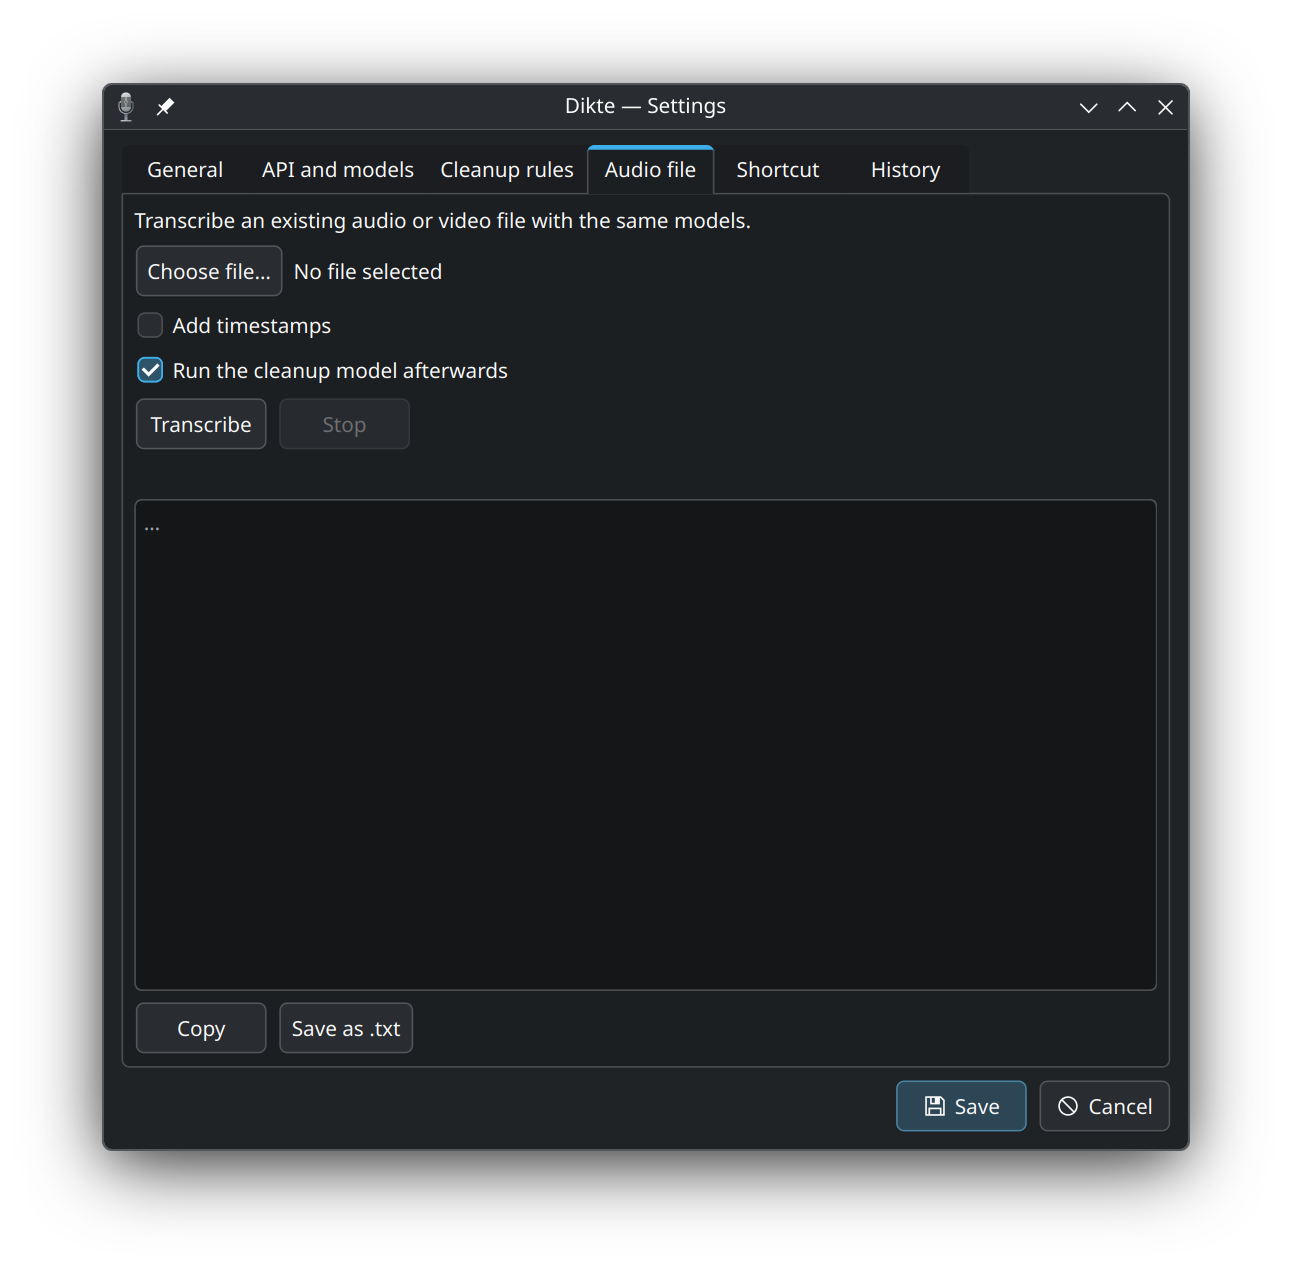
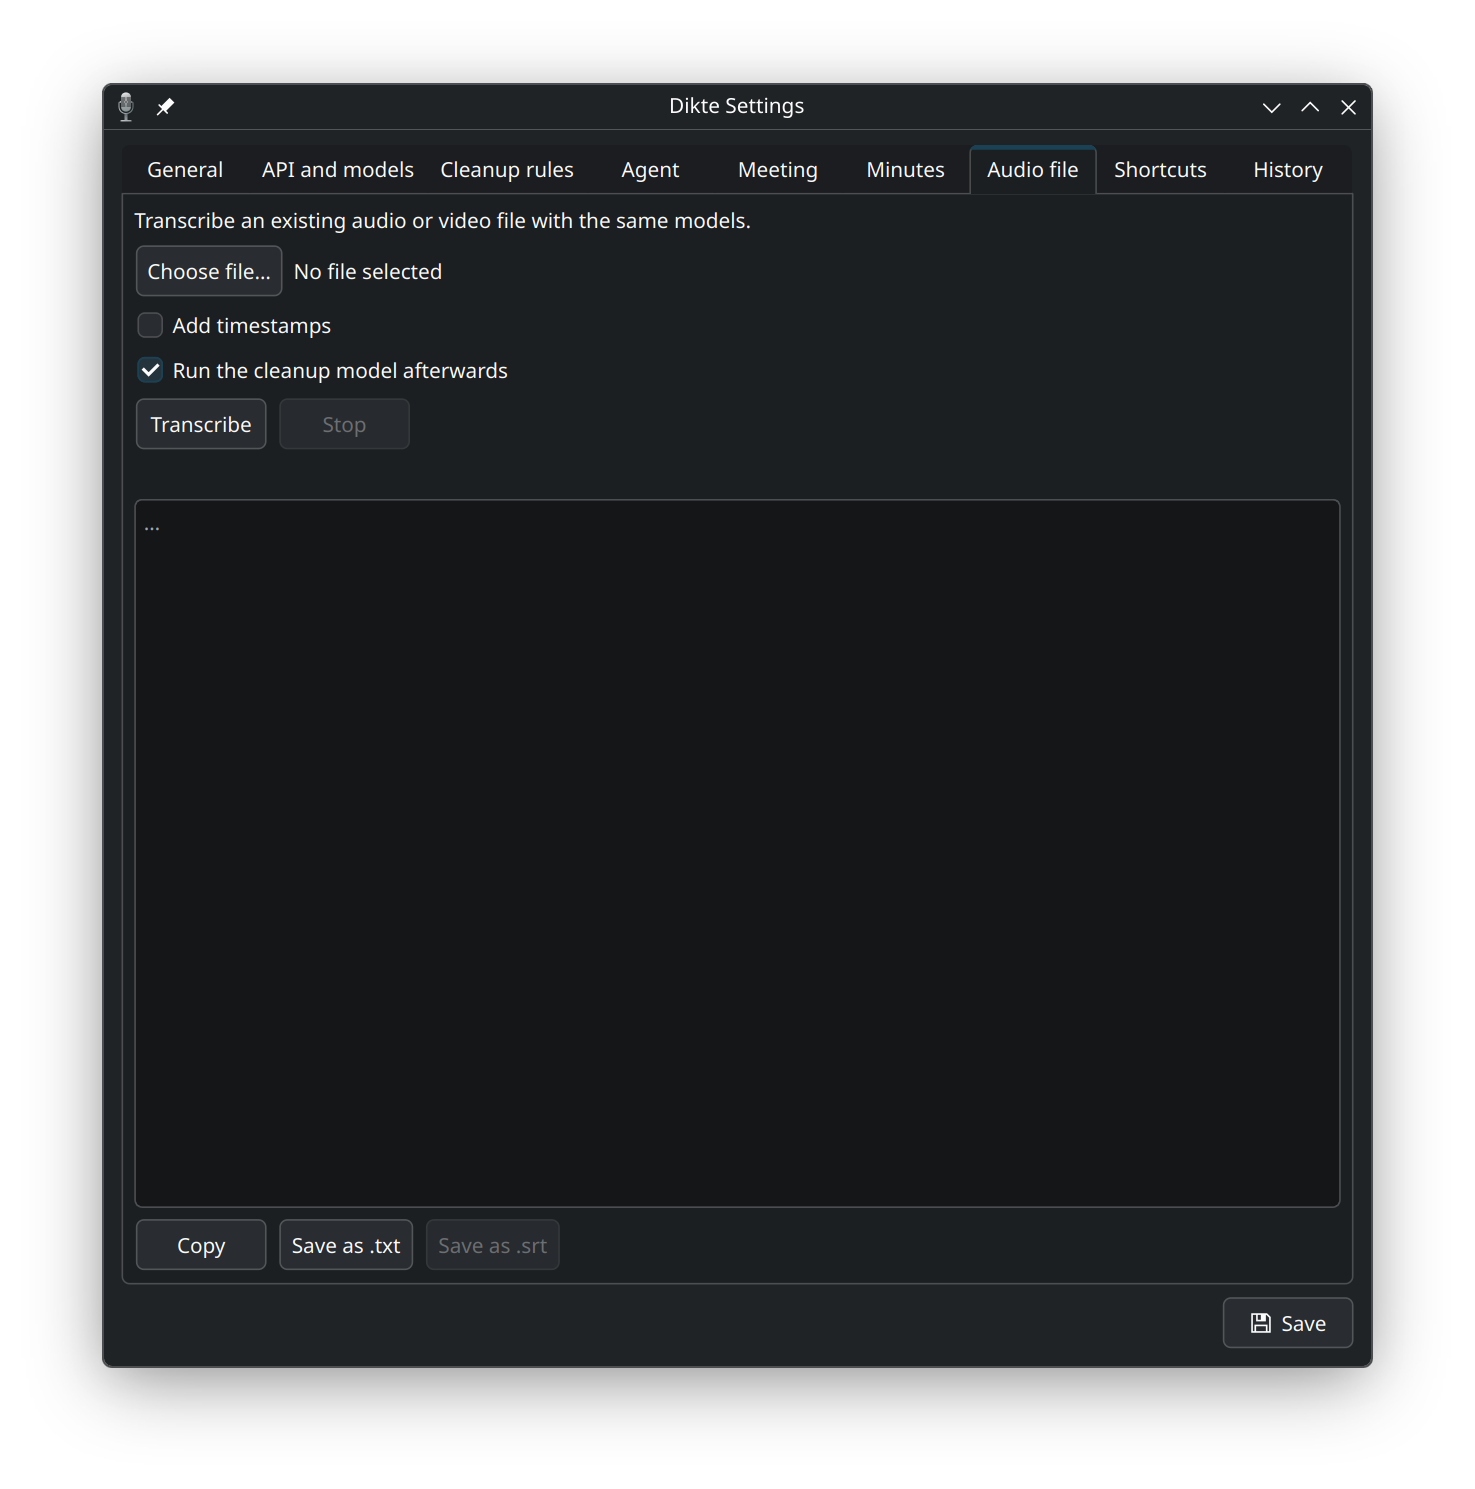
Reshoot every tab, and put the local models first
The settings window has four tabs it did not have when these were taken:
Agent, Meeting, Minutes and Shortcuts. Replace the four screenshots with
seven, at the same size and lossless as before. History goes without a
replacement rather than showing an old tab bar beside the new ones.

Running here is what the program does by default, and it was buried in a
paragraph under Install. Make it the first thing the feature list says,
and cut that paragraph back so the two do not repeat each other.

Changed region(s): [[0.0619, 0.0307, 0.9288, 0.9198]]

diff --git a/README.md b/README.md
@@ -17,7 +17,8 @@ just the Python standard library and PyQt6.
 |  |  |
 |---|---|
 | <img src="docs/settings-api.webp" width="410" alt="API and models"> | <img src="docs/settings-cleanup.webp" width="410" alt="Cleanup rules"> |
-| <img src="docs/settings-audio-file.webp" width="410" alt="Audio file"> | <img src="docs/settings-history.webp" width="410" alt="History"> |
+| <img src="docs/settings-agent.webp" width="410" alt="Agent"> | <img src="docs/settings-meeting.webp" width="410" alt="Meeting"> |
+| <img src="docs/settings-audio-file.webp" width="410" alt="Audio file"> | <img src="docs/settings-shortcuts.webp" width="410" alt="Shortcuts"> |
 
 ## Install
 
@@ -42,16 +43,14 @@ puts all of that back, keeping the keys you chose; `./uninstall.sh` takes it awa
 again and leaves your settings and dictations alone unless you pass `--purge`.
 
 Speech to text and cleanup each pick a provider in the settings window, and both
-can run here, on whisper.cpp and llama.cpp: the program and the model are
-downloaded from that window, checksummed, so nothing has to be installed first
-and nothing leaves the machine. Otherwise speech to text runs on **OpenAI**,
-**Groq** or **OpenRouter** (`gpt-4o-transcribe` by default) and cleanup on
-OpenRouter (`google/gemini-3.5-flash-lite`) or, when either is installed, on
-Claude Code or Codex. The keys fall back to `OPENAI_API_KEY`, `GROQ_API_KEY` and
-`OPENROUTER_API_KEY`, and are
-stored in `~/.config/dikte/config.json`, mode 600. Cleanup can be switched off,
-in which case the raw transcript is pasted, and a thinking model's effort can be
-set next to it.
+run here by default, on models of your own. The cloud is the other option:
+speech to text on **OpenAI**, **Groq** or **OpenRouter** (`gpt-4o-transcribe`),
+cleanup on OpenRouter (`google/gemini-3.5-flash-lite`) or, when either is
+installed, on Claude Code or Codex. The keys fall back to `OPENAI_API_KEY`,
+`GROQ_API_KEY` and `OPENROUTER_API_KEY`, and are stored in
+`~/.config/dikte/config.json`, mode 600. Cleanup can be switched off, in which
+case the raw transcript is pasted, and a thinking model's effort can be set next
+to it.
 
 ## Using it
 
@@ -81,6 +80,12 @@ running.
 
 ## What it does
 
+- **It all runs on this machine by default.** Speech to text on whisper.cpp and
+  cleanup on llama.cpp, neither installed beforehand: the settings window fetches
+  the program and the model, verifies the sha256 and refuses a download published
+  without one, then keeps a server alive while you dictate. The graphics card is
+  reached through CUDA, ROCm or Vulkan where the build allows. No key, no
+  account, nothing leaving the machine.
 - **Silence never reaches the API.** Handed near-silence, a transcription model
   invents a sentence instead of returning nothing ("Thanks for watching", or in
   Turkish "Altyazı M.K."). A recording is dropped when nothing rose 10 dB above

diff --git a/README.tr.md b/README.tr.md
@@ -16,7 +16,8 @@ sadece Python standart kütüphanesi ve PyQt6.
 |  |  |
 |---|---|
 | <img src="docs/settings-api.webp" width="410" alt="API ve modeller"> | <img src="docs/settings-cleanup.webp" width="410" alt="Temizleme kuralları"> |
-| <img src="docs/settings-audio-file.webp" width="410" alt="Ses dosyası"> | <img src="docs/settings-history.webp" width="410" alt="Geçmiş"> |
+| <img src="docs/settings-agent.webp" width="410" alt="Ajan"> | <img src="docs/settings-meeting.webp" width="410" alt="Toplantı"> |
+| <img src="docs/settings-audio-file.webp" width="410" alt="Ses dosyası"> | <img src="docs/settings-shortcuts.webp" width="410" alt="Kısayollar"> |
 
 ## Kurulum
 
@@ -42,11 +43,9 @@ son sürümü çeker ve bunları senin seçtiğin tuşlarla yerine koyar;
 diktelerine dokunmaz.
 
 Sesi yazıya çevirme ve temizleme, ayarlar penceresinde ayrı ayrı sağlayıcı
-seçer; ikisi de burada çalışabilir, whisper.cpp ve llama.cpp üzerinde: program da
-model de o pencereden, sha256 doğrulamasıyla indirilir, yani önceden hiçbir şey
-kurman gerekmez ve makineden hiçbir şey çıkmaz. Bulutu seçersen sesi yazıya
-çevirme **OpenAI**, **Groq** ya da **OpenRouter**'da (varsayılan
-`gpt-4o-transcribe`), temizleme OpenRouter'da
+seçer; ikisi de varsayılan olarak burada, kendi modellerinle çalışır. Bulutu
+seçersen sesi yazıya çevirme **OpenAI**, **Groq** ya da **OpenRouter**'da
+(varsayılan `gpt-4o-transcribe`), temizleme OpenRouter'da
 (`google/gemini-3.5-flash-lite`) ya da kuruluysa Claude Code veya Codex'te
 çalışır. Anahtarları boş bırakırsan `OPENAI_API_KEY`, `GROQ_API_KEY` ve
 `OPENROUTER_API_KEY` kullanılır; anahtarlar `~/.config/dikte/config.json`
@@ -81,6 +80,12 @@ olmasını ister.
 
 ## Neler yapıyor
 
+- **Her şey varsayılan olarak bu makinede çalışır.** Sesi yazıya çevirme
+  whisper.cpp, temizleme llama.cpp üzerinde; ikisini de önceden kurman gerekmez:
+  ayarlar penceresi programı ve modeli indirir, sha256'sını doğrular,
+  checksum'suz yayınlanmış bir indirmeyi reddeder, sen dikte ettikçe sunucuyu
+  ayakta tutar. Derleme destekliyorsa ekran kartına CUDA, ROCm ya da Vulkan
+  üzerinden ulaşılır. Anahtar yok, hesap yok, makineden çıkan bir şey yok.
 - **Sessizlik API'ye gitmez.** Sessize yakın bir ses verildiğinde model boş dize
   döndürmez, bir cümle uydurur ("Altyazı M.K.", "Thanks for watching"). *O
   kaydın kendi* gürültü tabanının 10 dB üstüne en az 0,3 saniye çıkan bir şey
